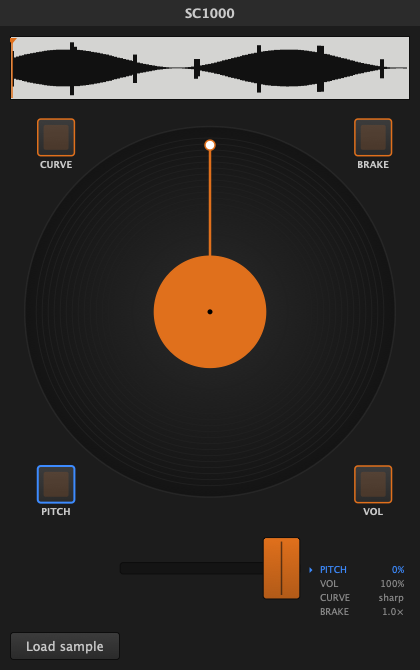
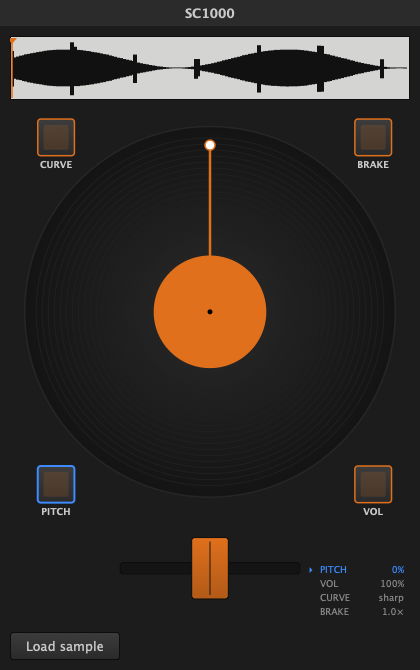
Add center-open double-cut crossfader (SC1000 battle fader)
The crossfader is now a double-cut: full at the centre, silent at both
edges, with the curve setting shaping the centre->edge falloff. Matches
the SC1000 firmware default where you cut toward either end rather than
mixing between two decks.

Driven by distance from centre (c = 1 - 2*|fpos - 0.5|) through the same
hysteresis/curve/de-click as before; default fader position moved to
centre (0.5) so audio passes before the fader is touched.

Changed region(s): [[0.4333, 0.806, 0.5571, 0.8955], [0.619, 0.806, 0.7119, 0.8955]]

diff --git a/vst/src/ScratchEngine.h b/vst/src/ScratchEngine.h
@@ -19,9 +19,10 @@
 //    firmware `slippiness`).
 //  • Stop               → the motor brakes from 1× to 0 over ~0.6 s = tape stop
 //    (firmware `brakespeed`).
-//  • Crossfader         → a hysteresis CUT (not a linear fade): full off only at
-//    the closed edge, with a ~20 ms de-click decay (firmware fader). The volume
-//    pot (CC18) sets the level.
+//  • Crossfader         → a double-cut (centre-open, not a linear fade): full at the
+//    centre, silent at BOTH edges — the SC1000 "battle" fader where you cut toward
+//    either end rather than mixing between two decks. ~20 ms de-click decay; the
+//    curve (cue 3) shapes the falloff and the volume pot (CC18) sets the level.
 //
 // A one-pole DC blocker keeps a stationary platter silent and de-clicks.
 class ScratchEngine
@@ -32,8 +33,8 @@ public:
     static constexpr double kTouchDebounce= 0.040;  // coast window after a touch drop (s) — rides flicker, then slips to motor
     static constexpr double kBrakeSpeed   = 3000.0; // firmware brakespeed — bigger = longer tape stop
     static constexpr double kSlipTau      = 0.050;  // slipmat time constant (s) — platter eases to motor
-    static constexpr double kFaderOpenPt  = 0.010;  // crossfader cut: opens above this (0..1)
-    static constexpr double kFaderClosePt = 0.004;  // ...closes below this (hysteresis)
+    static constexpr double kFaderOpenPt  = 0.010;  // double-cut: opens when centre-distance exceeds this
+    static constexpr double kFaderClosePt = 0.004;  // ...closes below this (hysteresis, near each edge)
     static constexpr double kFaderDecay   = 0.020;  // crossfader cut decay (s) — de-click
     static constexpr double kVolumeGain   = 1.0;    // output level vs |pitch| (firmware VOLUME): ≥1× → full, ~0 stopped
     static constexpr int    kJogDeadband  = 1;      // ignore isolated ±1 jog counts (encoder idle trickle)
@@ -161,21 +162,25 @@ public:
         pitch += alpha * (targetPitch - pitch);
         pitch  = juce::jlimit (-20.0, 20.0, pitch); // safety clamp (firmware ±20)
 
-        // --- crossfader CUT (hysteresis + decay); volume pot sets the level. The cut
-        //     curve (cue 3) shapes how much fader travel goes silent→full: sharp =
-        //     near-instant (hard cut, the scratch default), soft = gradual fade. ---
+        // --- crossfader DOUBLE-CUT (centre-open, hysteresis + decay); volume pot sets
+        //     the level. Driven by distance from centre: c = 1 at the centre, 0 at
+        //     BOTH edges, so a cut fires toward either end (the SC1000 battle fader) —
+        //     not a side-to-side fade between decks. The curve (cue 3) shapes the
+        //     falloff: sharp = full across nearly all travel, hard cut only at the very
+        //     edges; soft = a gradual tent from the centre outward. ---
         const double fpos  = cs.crossfader.load (std::memory_order_relaxed);
+        const double c     = 1.0 - 2.0 * std::abs (fpos - 0.5); // 1 = centre, 0 = either edge
         const double cutPt = faderOpen ? kFaderClosePt : kFaderOpenPt;
-        faderOpen = (fpos >= cutPt);
+        faderOpen = (c >= cutPt);
         double faderTarget;
         if (! faderOpen)
         {
-            faderTarget = 0.0; // true silence at the closed edge
+            faderTarget = 0.0; // true silence at either edge
         }
         else
         {
             const double curve = juce::jlimit (0.0, 1.0, (double) cs.faderCurve.load (std::memory_order_relaxed));
-            const double xn    = juce::jlimit (0.0, 1.0, (fpos - kFaderOpenPt) / (1.0 - kFaderOpenPt));
+            const double xn    = juce::jlimit (0.0, 1.0, (c - kFaderOpenPt) / (1.0 - kFaderOpenPt));
             const double knee  = kCurveSharpKnee + curve * (1.0 - kCurveSharpKnee); // 0.01 (sharp) .. 1.0 (soft)
             faderTarget = juce::jmin (1.0, xn / knee);
         }

diff --git a/vst/src/ControlState.h b/vst/src/ControlState.h
@@ -7,11 +7,12 @@
 // atomics are sufficient. See docs/MIDI-MAPPING.md for the device contract.
 struct ControlState
 {
-    // Crossfader (CC16): 0..1. Default fully open so audio passes before it's touched.
-    // While Shift is held this freezes (the cut holds) and the fader drives a param
-    // instead; faderRaw still tracks the live physical position for the GUI head.
-    std::atomic<float> crossfader { 1.0f };
-    std::atomic<float> faderRaw   { 1.0f };
+    // Crossfader (CC16): 0..1. Double-cut (centre-open): full at the centre, silent at
+    // both edges — so the default sits at centre (0.5) and audio passes before it's
+    // touched. While Shift is held this freezes (the cut holds) and the fader drives a
+    // param instead; faderRaw still tracks the live physical position for the GUI head.
+    std::atomic<float> crossfader { 0.5f };
+    std::atomic<float> faderRaw   { 0.5f };
 
     // Volume pots (CC18 / CC19): 0..1. volA drives master out for the MVP; volB is
     // spare (only one voice today — see ARCHITECTURE.md open question 5).

diff --git a/vst/src/PluginEditor.h b/vst/src/PluginEditor.h
@@ -266,7 +266,7 @@ private:
         }
     }
 
-    float headDisplay = 1.0f; // smoothed fader-head position (matches faderRaw default)
+    float headDisplay = 0.5f; // smoothed fader-head position (matches faderRaw default: centre)
     ScratchAudioProcessor& proc;
 };
 

diff --git a/vst/docs/ARCHITECTURE.md b/vst/docs/ARCHITECTURE.md
@@ -23,10 +23,15 @@ marked with the provisional answer the MVP ships.
   directions, seamless cubic across the boundary — q10 decided; toggle via
   `ScratchEngine::setLoop`, default on). One voice. *(Note: scratch is now
   touch-gated — jog without touch is treated as coast, handled by the slip model.)*
-- **Crossfader** (open q4, decided) = firmware-ported **hysteresis CUT** — sharp
-  on/off at the closed edge + ~20 ms de-click, *not* a linear fade; the **volume
+- **Crossfader** (open q4, decided) = firmware-ported **double-cut (centre-open)** —
+  full at the centre, silent at **both** edges, with hysteresis + ~20 ms de-click,
+  *not* a linear fade. This is the SC1000 "battle" fader: you cut toward either end
+  rather than mixing between two decks. Driven by distance from centre
+  (`c = 1 − 2·|fpos − 0.5|`) through the same hysteresis/curve/decay; the **volume
   pot CC18** sets the level. Side benefit: immune to the CC16 idle-drift. The cut
-  **curve** (sharp↔soft) is now adjustable via the shift layer. volB spare (open q5).
+  **curve** (sharp↔soft) is adjustable via the shift layer — sharp = full across
+  nearly all travel (hard cut only at the very edges), soft = a gradual tent from
+  the centre outward. volB spare (open q5).
 - **Self-contained saving**: the loaded sample is embedded in the plugin state
   chunk — confirmed approach (see below).
 - **GUI** (`PluginEditor.*`): waveform+playhead, spinning platter w/ DJ marker,
@@ -54,7 +59,7 @@ reads the resulting scalars from `ControlState`, and volume mode reuses the exis
 |---|---|---|
 | bottom-left · 32  | **pitch**  | ±20% varispeed; snaps to unity across centre ±20% |
 | bottom-right · 35 | **volume** | 0→unity, detent at ~75% (writes `volA`) |
-| top-left · 33     | **curve**  | left = sharp/hard-cut → right = soft fade (Vestax-05 style) |
+| top-left · 33     | **curve**  | centre→edge falloff: left = sharp/hard-cut → right = soft tent (Vestax-05 style) |
 | top-right · 34    | **brake**  | tape-stop length, short→long (centre = stock) |
 
 The cue note→mode pairing is **hardware-verified** (the MK2's expander pins aren't
@@ -247,9 +252,11 @@ guarantees true scratch feel.
 
 ### Controls
 4. **Crossfader (CC16)** — ~~gate vs linear vs user-assignable? what curve?~~
-   **DECIDED:** hysteresis **CUT** (gates the single scratch voice); the **curve**
-   (sharp↔soft) is adjustable via the shift layer; volume pot CC18 sets the level.
-   (CC17 mirrors CC16 — ignore it.)
+   **DECIDED:** **double-cut (centre-open)** — full at the centre, silent at both
+   edges (gates the single scratch voice; cut toward either end, SC1000-firmware
+   default); the **curve** (sharp↔soft) is adjustable via the shift layer and shapes
+   the centre→edge falloff; volume pot CC18 sets the level. (CC17 mirrors CC16 —
+   ignore it.)
 5. **Volume pots (CC18/19)** — **DECIDED:** CC18 = master level (also the target of
    the shift-layer "volume" mode, via `volA`). CC19 (volB) still spare — one voice.
 6. **Buttons** — ~~assign to what?~~ **DECIDED (front controls):** Start/Stop (27)

diff --git a/vst/docs/MIDI-MAPPING.md b/vst/docs/MIDI-MAPPING.md
@@ -26,7 +26,7 @@ configurable; don't hard-filter on channel 1.
 
 | # | Control | Message | Range / encoding |
 |---|---|---|---|
-| CC **16** (`0x10`) | **Crossfader** | Control Change | 0–127 absolute |
+| CC **16** (`0x10`) | **Crossfader** | Control Change | 0–127 absolute (plugin: double-cut, centre-open — full at 64, silent at 0/127) |
 | CC **17** (`0x11`) | Crossfader (2nd ADC channel) | Control Change | 0–127 — **mirrors CC16** (see quirks) |
 | CC **18** (`0x12`) | Volume pot A (sample, back) | Control Change | 0–127 absolute |
 | CC **19** (`0x13`) | Volume pot B (beat, back) | Control Change | 0–127 absolute |